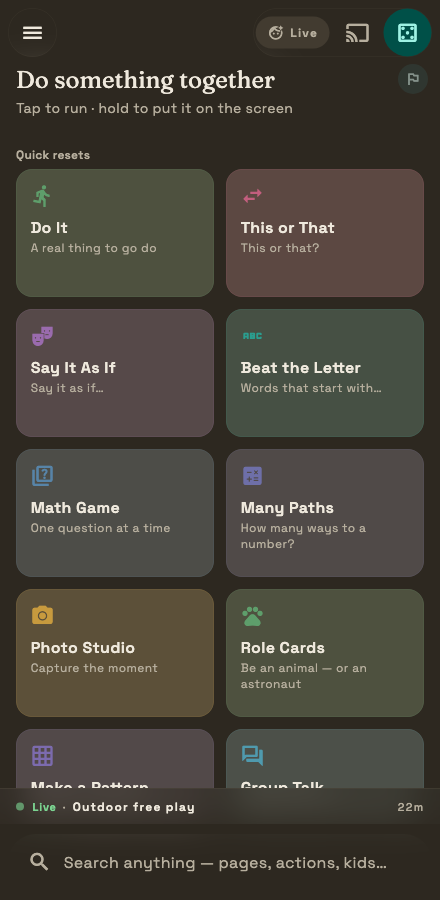
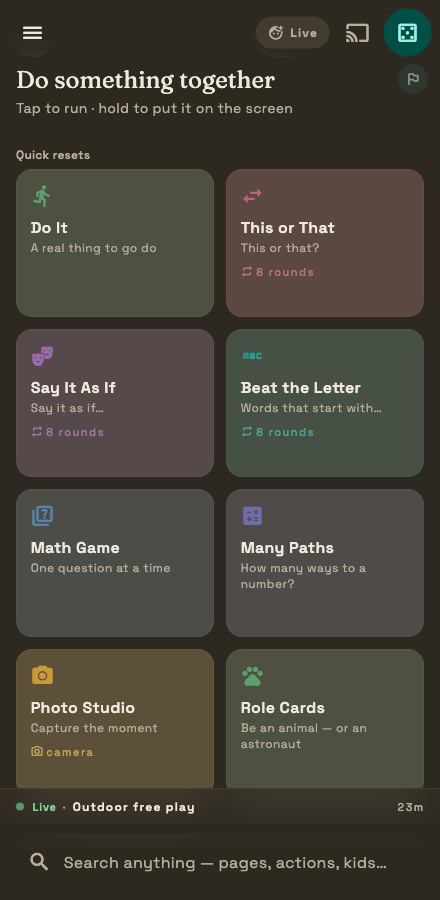
feat(deck): fifty cards that say what they need
Done
- "Do together" showed a title and a tagline on every card, so with four
  minutes before the room comes back in, Scattergories and Photo Studio
  looked equally runnable when one needs ninety seconds and somebody who
  can type and the other needs a camera. Each card now carries up to two
  chips: camera · 2 teams · someone types · 90s / on a clock · 8 rounds ·
  pictures.
- Every chip is DERIVED from the game — alternates, entryHint, ticks, the
  seconds and rounds settings, membership of castableCardGames. A
  hand-authored `needs:` field on fifty cards is fifty things to keep
  true, and the first one to go stale teaches a teacher to stop believing
  the rest (the CaptureSpec trap). A new activity gets its chips the
  moment it is registered.
- Deliberately incomplete, and the test enforces that: a card the app
  knows nothing about claims nothing. Thirteen of the fifty are bespoke
  screens with no GameDefinition behind them, and inventing "5-10 min"
  for them would read as signal and be fiction. The label test allows
  only the derived shapes, so a future invented chip fails rather than
  ships as believable.
- Two chips max, one line, no reflow — three chips on a tile is a second
  tagline in disguise. Every tile reserves the chip line whether or not
  it has one, because a grid of two cell heights is the ragged deck the
  hug-the-top rewrite fixed.
- The distribution was measured before choosing what to show: teams 11,
[…]

Changed region(s): [[0.0295, 0.28, 0.975, 0.9022]]

diff --git a/test/unit/card_signals_test.dart b/test/unit/card_signals_test.dart
@@ -1,0 +1,102 @@
+// Fifty cards, a substitute teacher, and four minutes before the room comes
+// back in. The question is never "what is this called" — it is *can I run
+// this, right now, with what is in front of me*, and the deck answered
+// neither: every card was a title and a tagline, so "Scattergories" and
+// "Photo Studio" looked equally runnable when one needs ninety seconds and
+// somebody who can type and the other needs a camera.
+//
+// Every chip is DERIVED from the game. A hand-authored `needs:` field on fifty
+// cards is fifty things to keep true, and the first one to go stale teaches a
+// teacher to stop believing the rest.
+
+import 'package:differentworld/features/activity_runtime/activity_deck.dart';
+import 'package:differentworld/features/activity_runtime/card_signals.dart';
+import 'package:differentworld/features/games/game_registry.dart';
+import 'package:differentworld/features/games/grid_game.dart';
+import 'package:flutter_test/flutter_test.dart';
+
+void main() {
+  final deck = <DeckCard>[
+    ...breakDeck(camera: true),
+    ...presentDeck,
+  ];
+
+  test('a chip is only ever something the game itself declares', () {
+    // The anti-fiction check. Every label has to be traceable to a fact, so
+    // this asserts the SHAPE of every label the deriver can emit — a new chip
+    // that invents "5-10 min" for forty games fails here rather than shipping
+    // as believable signal.
+    final allowed = RegExp(
+      r'^(camera|pictures|someone types|on a clock|\d+ (teams|rounds)|\d+s)$',
+    );
+    for (final card in deck) {
+      for (final s in signalsFor(card.route)) {
+        expect(
+          allowed.hasMatch(s.label),
+          isTrue,
+          reason: '"${s.label}" on ${card.title} is not a derived fact',
+        );
+      }
+    }
+  });
+
+  test('the chips agree with the game, card by card', () {
+    var teams = 0;
+    var types = 0;
+    var clocks = 0;
+    for (final card in deck) {
+      final labels = [for (final s in signalsFor(card.route)) s.label];
+      final def = gameForRoute(card.route);
+      if (def == null) continue;
+      final Object game = def;
+      if (game is GridGame && game.alternates) {
+        teams++;
+        expect(
+          labels,
+          contains('${game.sides.length} teams'),
+          reason: '${card.title} alternates and does not say so',
+        );
+      }
+      if (game is GridGame && game.entryHint != null) types++;
+      if (def.ticks) {
+        clocks++;
+        expect(
+          labels.any((l) => l == 'on a clock' || l.endsWith('s')),
+          isTrue,
+          reason: '${card.title} runs on a clock and does not say so',
+        );
+      }
+    }
+    // A chip nothing carries is dead code; a chip everything carries is ink
+    // with no information. Both are failures, so pin that the deck really is
+    // mixed.
+    expect(teams, inInclusiveRange(4, 25), reason: 'teams: $teams of 50');
+    expect(clocks, inInclusiveRange(2, 15), reason: 'clocks: $clocks of 50');
+    expect(types, greaterThan(0));
+  });
+
+  test('a card the app knows nothing about claims nothing', () {
+    // Honest silence. Thirteen of the fifty are bespoke screens with no
+    // GameDefinition behind them; inventing a chip for those is the trap.
+    expect(signalsFor('/activity/not-a-real-route'), isEmpty);
+    expect(signalsFor('/settings'), isEmpty);
+  });
+
+  test('the camera card says camera — the deck used to just hide it', () {
+    expect(
+      [for (final s in signalsFor('/activity/photo')) s.label],
+      contains('camera'),
+    );
+  });
+
+  test('no tile is asked to wear more than the two it can draw', () {
+    // The tile keeps the front of the list, so the order matters: what you
+    // would be STOPPED by has to come before how the round feels.
+    for (final card in deck) {
+      final labels = [for (final s in signalsFor(card.route)) s.label];
+      if (labels.contains('camera')) {
+        expect(labels.first, 'camera', reason: '${card.title} buries the need');
+      }
+    }
+  });
+}

diff --git a/lib/features/activity_runtime/card_signals.dart b/lib/features/activity_runtime/card_signals.dart
@@ -1,0 +1,93 @@
+import 'package:differentworld/features/games/cards/castable_card_games.dart';
+import 'package:differentworld/features/games/game.dart';
+import 'package:differentworld/features/games/game_registry.dart';
+import 'package:differentworld/features/games/game_settings.dart';
+import 'package:differentworld/features/games/grid_game.dart';
+import 'package:flutter/material.dart';
+
+/// One thing a card can tell you before you tap it.
+@immutable
+class CardSignal {
+  const CardSignal(this.label, this.icon);
+
+  final String label;
+  final IconData icon;
+}
+
+/// **What this activity needs, and what it is like** — read off the game
+/// itself, never hand-typed.
+///
+/// Fifty cards, a substitute teacher, and four minutes before the room comes
+/// back in: the question is not "what is this called", it is *can I run this,
+/// right now, with what is in front of me*. The deck answered neither — every
+/// card was a title and a tagline, so "Scattergories" and "Photo Studio"
+/// looked equally runnable when one needs ninety seconds and a person who can
+/// type and the other needs a camera.
+///
+/// **Everything here is DERIVED.** A hand-authored `needs:` field on fifty
+/// cards is fifty things to keep true, and the first one to go stale teaches a
+/// teacher to stop believing the rest — the `CaptureSpec` trap (CLAUDE.md, "a
+/// documented type is not a working feature"). So a new game gets its chips
+/// the moment it is registered, and a game that stops alternating stops
+/// claiming to need teams, with nobody remembering to do either.
+///
+/// It is also deliberately INCOMPLETE. Only what a game actually declares
+/// appears; a card with no chips is one the app knows nothing special about,
+/// which is honest. Inventing "5-10 min" for forty games would read as signal
+/// and be fiction.
+List<CardSignal> signalsFor(String route) {
+  final def = gameForRoute(route);
+  final out = <CardSignal>[];
+  // Ordered by what a person would be STOPPED by. What you must go and fetch
+  // beats how the round feels, and the list is capped, so the first two lines
+  // are the ones that survive a narrow tile.
+  if (_cameraRoutes.contains(route)) {
+    out.add(const CardSignal('camera', Icons.photo_camera_outlined));
+  }
+  if (def == null) return out;
+  final Object game = def; // typed as Object so `is GridGame` promotes
+  if (game is GridGame) {
+    if (game.alternates) {
+      out.add(CardSignal('${game.sides.length} teams', Icons.groups_outlined));
+    }
+    if (game.entryHint != null) {
+      out.add(const CardSignal('someone types', Icons.keyboard_outlined));
+    }
+  }
+  // A duration when the game knows one, and the fact of a clock when it only
+  // knows that. "On a clock" is the difference between a round that ends by
+  // itself and one a teacher has to call.
+  final secs = _secondsOf(def);
+  if (secs != null) {
+    out.add(CardSignal('${secs}s', Icons.timer_outlined));
+  } else if (def.ticks) {
+    out.add(const CardSignal('on a clock', Icons.timer_outlined));
+  }
+  if (_rounds(def) case final n?) {
+    out.add(CardSignal('$n rounds', Icons.repeat_rounded));
+  }
+  // Pictures, not words — the single most useful thing to know about a game
+  // when the room in front of you cannot read yet.
+  if (castableCardGames.any((g) => g.$1.id == def.id)) {
+    out.add(const CardSignal('pictures', Icons.image_outlined));
+  }
+  return out;
+}
+
+/// The routes that only appear on a device with a camera — so the chip says
+/// what the card needs rather than the deck silently hiding it.
+const Set<String> _cameraRoutes = {'/activity/photo'};
+
+int? _secondsOf(GameDefinition<dynamic> def) {
+  for (final s in def.settings) {
+    if (s.id == secondsId && s is IntSetting) return s.initial;
+  }
+  return null;
+}
+
+int? _rounds(GameDefinition<dynamic> def) {
+  for (final s in def.settings) {
+    if (s.id == roundLengthId && s is IntSetting) return s.initial;
+  }
+  return null;
+}

diff --git a/lib/shared/widgets/accent_card_tile.dart b/lib/shared/widgets/accent_card_tile.dart
@@ -1,3 +1,4 @@
+import 'package:differentworld/shared/widgets/app_gap.dart';
 import 'package:flutter/material.dart';
 
 /// A deck tile in a "grid of cards" hub — Present, Brain Breaks, Role Cards.
@@ -36,6 +37,7 @@ class AccentCardTile extends StatelessWidget {
     this.onTap,
     this.onLongPress,
     this.semanticLabel,
+    this.chips = const <TileChip>[],
     super.key,
   }) : assert(
          (icon == null) != (emoji == null),
@@ -71,6 +73,14 @@ class AccentCardTile extends StatelessWidget {
   /// One clean screen-reader announcement for the whole tile; when set, the
   /// inner fragments are excluded so it reads as a single button.
   final String? semanticLabel;
+
+  /// What this card needs, at a glance — "2 teams", "90s", "camera".
+  ///
+  /// At most two are drawn. Three chips on a tile is a second tagline in
+  /// disguise, and a scroll of fifty tiles each wearing three is the wall the
+  /// chips exist to break up. The caller orders them; the tile keeps the
+  /// front of the list, so what you would be STOPPED by survives.
+  final List<TileChip> chips;
 
   @override
   Widget build(BuildContext context) {
@@ -144,6 +154,14 @@ class AccentCardTile extends StatelessWidget {
                   ),
                 ),
               ],
+              if (chips.isNotEmpty) ...[
+                const SizedBox(height: 8),
+                // Not Flexible, and not wrapped: a chip row that reflows to a
+                // second line changes the tile's height, and these sit in a
+                // fixed-extent grid cell. One line, clipped, in a row that can
+                // give up its last chip rather than overflow.
+                _ChipRow(chips: chips.take(2).toList(), accent: color),
+              ],
             ],
           ),
         ),
@@ -158,5 +176,63 @@ class AccentCardTile extends StatelessWidget {
       );
     }
     return tile;
+  }
+}
+
+/// One glanceable fact on a tile — a label and the icon that carries it at a
+/// distance, since at 11sp the word is read second.
+@immutable
+class TileChip {
+  const TileChip(this.label, this.icon);
+
+  final String label;
+  final IconData icon;
+}
+
+/// The chips, on one line, in the accent's own quiet register.
+///
+/// They are drawn from the tile's accent rather than a semantic colour: these
+/// are properties of the activity, not statuses, and a red "camera" chip would
+/// read as a warning about a thing that is merely true.
+class _ChipRow extends StatelessWidget {
+  const _ChipRow({required this.chips, required this.accent});
+
+  final List<TileChip> chips;
+  final Color accent;
+
+  @override
+  Widget build(BuildContext context) {
+    final theme = Theme.of(context);
+    final ink = Color.alphaBlend(
+      accent.withValues(alpha: 0.75),
+      theme.colorScheme.onSurfaceVariant,
+    );
+    return Row(
+      mainAxisSize: MainAxisSize.min,
+      children: [
+        for (final (i, chip) in chips.indexed) ...[
+          if (i > 0) const AppGap.lg(),
+          // Flexible so a long label in a narrow cell gives up its own text
+          // rather than the row overflowing. The icon always survives.
+          Flexible(
+            child: Row(
+              mainAxisSize: MainAxisSize.min,
+              children: [
+                Icon(chip.icon, size: 13, color: ink),
+                const AppGap.xs(),
+                Flexible(
+                  child: Text(
+                    chip.label,
+                    maxLines: 1,
+                    overflow: TextOverflow.ellipsis,
+                    style: theme.textTheme.labelSmall?.copyWith(color: ink),
+                  ),
+                ),
+              ],
+            ),
+          ),
+        ],
+      ],
+    );
   }
 }

diff --git a/lib/features/activity_runtime/brain_breaks_screen.dart b/lib/features/activity_runtime/brain_breaks_screen.dart
@@ -3,6 +3,7 @@ import 'dart:math';
 
 import 'package:differentworld/app/design_tokens.dart';
 import 'package:differentworld/features/activity_runtime/activity_deck.dart';
+import 'package:differentworld/features/activity_runtime/card_signals.dart';
 import 'package:differentworld/features/calm/calm_setting.dart';
 import 'package:differentworld/features/daily/daily_setting.dart';
 import 'package:differentworld/features/heroes/heroes_setting.dart';
@@ -57,7 +58,11 @@ class BrainBreaksScreen extends ConsumerWidget {
     // chrome ~66dp (padding + 24dp icon + gap) plus a text block that grows
     // with the user's scale. The old 140+64 was tuned for a Spacer-stretched
     // cell and left ~40% of every tile empty.
-    final tileExtent = 64 + 64 * scale;
+    // +20 for the chip line. Every tile reserves it, not just the ones that
+    // have chips: a grid of two different cell heights is the ragged deck the
+    // hug-the-top rewrite fixed, and a card with nothing to declare is the one
+    // whose title should still line up with its neighbours'.
+    final tileExtent = 84 + 64 * scale;
     // Part of the "Bento everywhere" sweep — gated ONLY on the global switch
     // (no per-screen toggle). When on, the SAME deck of cards re-lays as
     // uniform bento tiles (2-up on a phone); off keeps the existing
@@ -223,6 +228,7 @@ class BrainBreaksScreen extends ConsumerWidget {
             icon: card.icon,
             title: card.title,
             tagline: card.tagline,
+            chips: _chips(card),
             onTap: () => unawaited(context.push(card.route)),
             onLongPress: () => unawaited(_castCard(context, ref, card)),
           ),
@@ -258,6 +264,7 @@ class BrainBreaksScreen extends ConsumerWidget {
                 icon: card.icon,
                 title: card.title,
                 tagline: card.tagline,
+                chips: _chips(card),
                 onTap: () => unawaited(context.push(card.route)),
                 onLongPress: () => unawaited(_castCard(context, ref, card)),
               ),
@@ -267,6 +274,15 @@ class BrainBreaksScreen extends ConsumerWidget {
     );
   }
 }
+
+/// What a card declares about itself, as tile chips.
+///
+/// The derivation lives in `card_signals.dart` and reads the GAME — nothing
+/// here is typed per card, so a new activity gets its chips the moment it is
+/// registered and a changed rule updates them with nobody remembering to.
+List<TileChip> _chips(DeckCard card) => [
+  for (final s in signalsFor(card.route)) TileChip(s.label, s.icon),
+];
 
 /// Put a break on the room's screen.
 ///
